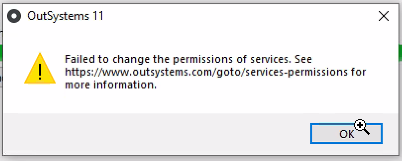
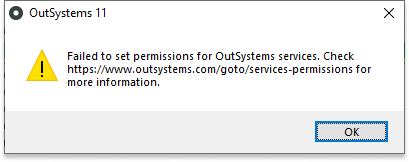
Updated graphic, added error message text

Changed region(s): [[0.0, 0.0, 1.0, 0.9877], [0.059, 0.3086, 0.914, 0.5556]]

diff --git a/src/enterprise/troubleshooting/service-permissions-change.md b/src/enterprise/troubleshooting/service-permissions-change.md
@@ -7,7 +7,7 @@ tags:
 
 ## Symptoms
 
-In a self-managed environment, installing or upgrading to Platform Server 11.12.0 or later fails. You see the following message about a failure to change permissions of services.
+In a self-managed environment, installing or upgrading to Platform Server 11.12.0 or later fails. You see the message: ``Failed to set permissions for OutSystems services.``
 
 ![](images/install-fail-permissions.png)
 
@@ -24,9 +24,7 @@ Change your Active Directory settings to allow user and policy changes. You can 
 ### Notes 
 
 * The Deployment Service requires higher privileges and continues to run in the context of the Local System account. 
-
 * To check your current settings, open the Windows Services application and locate the Deployment Controller Service and Scheduler Service. Check the account name in the **Log On As** column. 
-
 * In your current environment, if the Deployment Controller Service and Scheduler Service don’t run in the context of the Local System user, then the script doesn't try to create new users. It assumes you’ve already changed permissions manually, and the installation completes. 
 
 ## Service and user details
